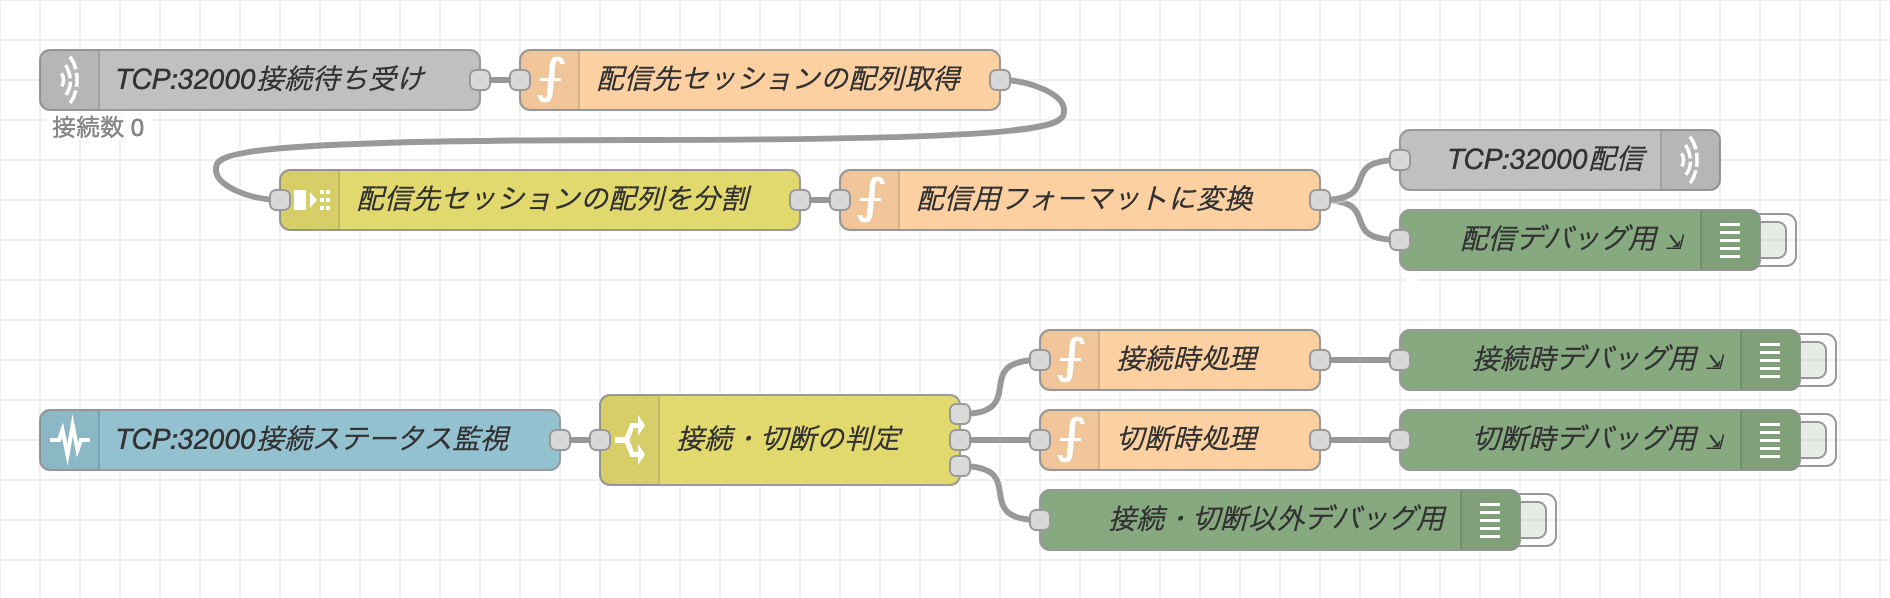
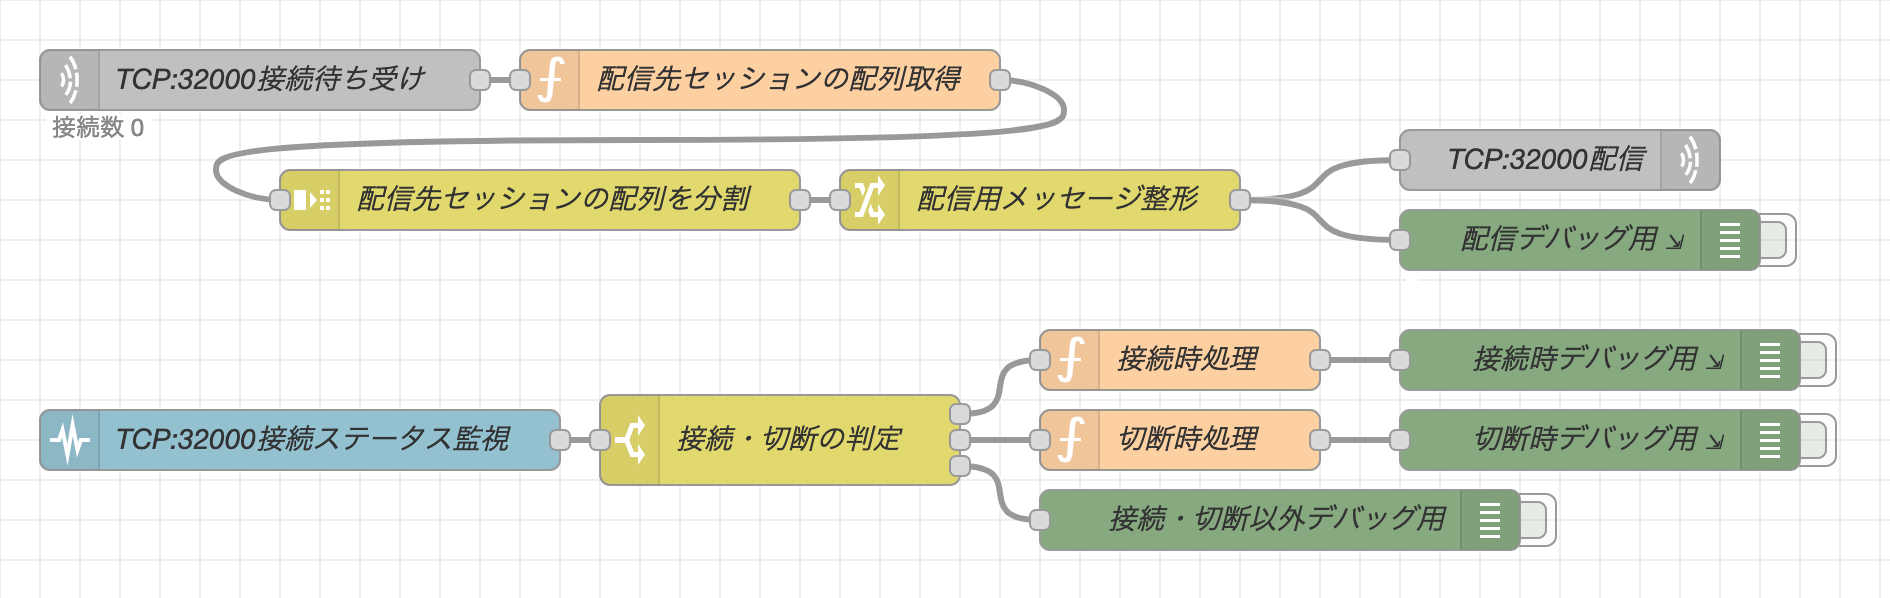
fix post

Changed region(s): [[0.437, 0.2709, 0.7492, 0.4214]]

diff --git a/content/post/node-red-tcp-broadcaster.md b/content/post/node-red-tcp-broadcaster.md
@@ -50,11 +50,11 @@ Node-REDはブラウザベースのエディタを提供し、パレットにあ
 
 先に実装したフローを記載しておきます。
 Node-REDは作成したフローをJSONで書き出し、読み込むことができます。
-少し長いのでJSONはページ末尾に記載します。
+少し長いのでJSONは[ページ末尾](#フローを書き出したjson)に記載します。
 
 ![flows.png](/images/node-red-tcp-broadcaster/flows.png)
 
-こちらに配信確認用のProcessingのコードも以下に記載しておきます。
+こちらに配信確認用のProcessingのコードも記載しておきます。
 
 ```java
 import processing.net.*;
@@ -201,7 +201,7 @@ return newMsg;
 
 のようにネストしてしまっているので、
 `TCP:32000配信（tcp outノード）` に渡す前に、
-`配信用フォーマットに変換（functionノード）` によって
+`配信用メッセージ整形（changeノード）` によって
 
 ```js
 {
@@ -214,13 +214,8 @@ return newMsg;
 ```
 
 のように `payload` の中身を取り出してあげる必要があります。
-`配信用フォーマットに変換（functionノード）` のコードは下記の通りです。
 
-```js
-return msg.payload;
-```
-
-最後に、 `配信用フォーマットに変換（functionノード）` によって整形されたメッセージは、
+最後に、 `配信用メッセージ整形（changeノード）` によって整形されたメッセージは、
 `TCP:32000配信（tcp outノード）` に渡されてクライアントに配信されます。
 
 # まとめ
@@ -396,28 +391,7 @@ return msg.payload;
         "y": 100,
         "wires": [
             [
-                "681bd1e8c1477dab"
-            ]
-        ]
-    },
-    {
-        "id": "681bd1e8c1477dab",
-        "type": "function",
-        "z": "700919af87990932",
-        "name": "配信用フォーマットに変換",
-        "func": "return msg.payload;\n",
-        "outputs": 1,
-        "timeout": 0,
-        "noerr": 0,
-        "initialize": "",
-        "finalize": "",
-        "libs": [],
-        "x": 540,
-        "y": 100,
-        "wires": [
-            [
-                "fa65aaacca58c9cb",
-                "7851c2f79233a54e"
+                "043f2ee6bbe79646"
             ]
         ]
     },
@@ -509,6 +483,41 @@ return msg.payload;
         "x": 640,
         "y": 260,
         "wires": []
+    },
+    {
+        "id": "043f2ee6bbe79646",
+        "type": "change",
+        "z": "700919af87990932",
+        "name": "配信用メッセージ整形",
+        "rules": [
+            {
+                "t": "move",
+                "p": "payload._session",
+                "pt": "msg",
+                "to": "_session",
+                "tot": "msg"
+            },
+            {
+                "t": "move",
+                "p": "payload.payload",
+                "pt": "msg",
+                "to": "payload",
+                "tot": "msg"
+            }
+        ],
+        "action": "",
+        "property": "",
+        "from": "",
+        "to": "",
+        "reg": false,
+        "x": 520,
+        "y": 100,
+        "wires": [
+            [
+                "7851c2f79233a54e",
+                "fa65aaacca58c9cb"
+            ]
+        ]
     }
 ]
 ```
